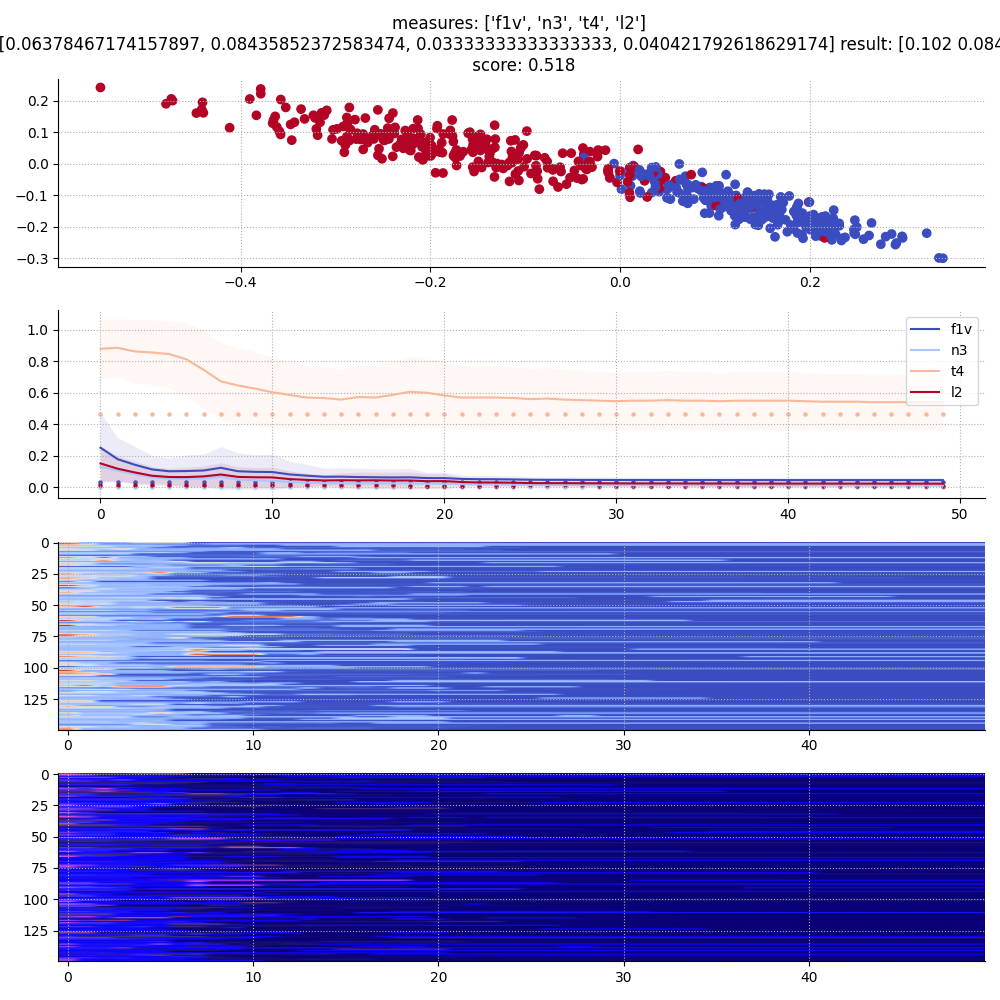
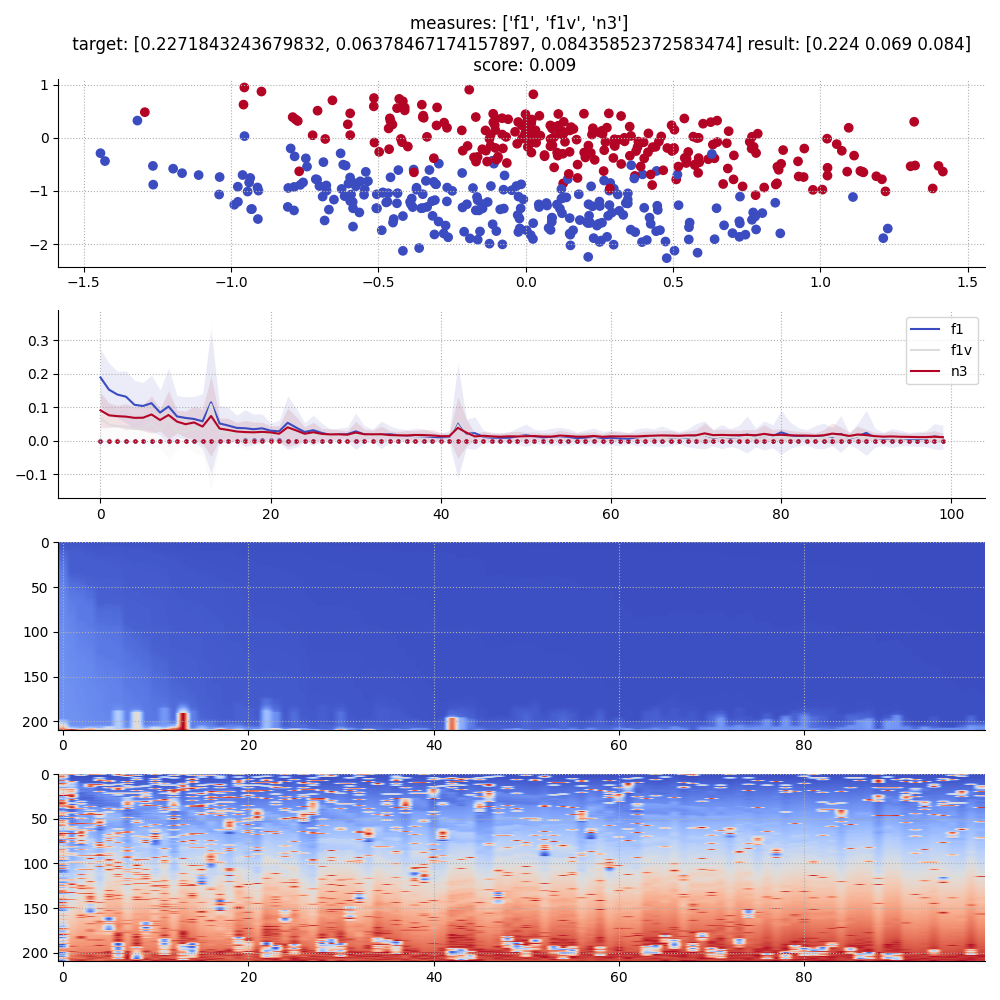
blobs

diff --git a/optim_sort.py b/optim_sort.py
@@ -1,0 +1,173 @@
+import numpy as np
+from sklearn.datasets import make_classification, make_blobs
+from problexity.classification import f1, f1v, f2, f3, f4, l1, l2, l3, n1, n2, n3, n4, t1, lsc, \
+    density, clsCoef, hubs, t2, t3, t4, c1, c2
+import matplotlib.pyplot as plt
+from sklearn.datasets import load_breast_cancer
+
+### genetic params
+pop_size = 210
+iters = 100
+cross_ratio = 0.2
+mut_ratio = 0.1
+mut_std = 0.2
+
+decay_cross = 0.01
+decay_mut = 0.01
+
+### target
+target_X, target_y = load_breast_cancer(return_X_y=True)
+
+complexity_fun = [f1, f1v, n3]
+target_complexity = [f(target_X, target_y) for f in complexity_fun]
+complexity_fun_names = [c.__name__ for c in complexity_fun]
+
+### init
+n_features = 10
+n_features_target = 2
+X, y = make_blobs(n_samples=500, n_features=n_features, centers=2)
+
+population = np.random.normal(loc=0, scale=3, size=(pop_size, n_features, n_features_target))
+
+pop_scores = np.full((pop_size, len(target_complexity)), np.nan)
+pop_scores_all = []
+fitness_all = []
+order_all = []
+
+### optimize
+for i in range(iters): 
+    # if i==3:
+    #     exit()
+    
+    # score
+    if i==0:
+        for projection_id, projection in enumerate(population):
+            pX = X@projection
+            pX /= n_features
+            
+            for cf_id, cf in enumerate(complexity_fun):
+                pop_scores[projection_id, cf_id] = np.abs(target_complexity[cf_id] - cf(pX, y))
+        
+        
+    #reorder
+    order = np.argsort(np.sum(pop_scores, axis=1))
+    print(order)
+    population = population[order]
+    pop_scores = pop_scores[order]
+    print('fitness;', np.sum(pop_scores, axis=1))
+    
+    
+    pop_scores_all.append(np.copy(pop_scores))
+    fitness_all.append(np.copy(np.sum(pop_scores, axis=1)))
+    order_all.append(np.copy(order))
+
+
+    if i!= iters-1: # w ostatnim kroku bez modyfikacji
+                
+        ### krzyżowanie
+        n_crosses = np.max([int(cross_ratio*pop_size), 1])
+        # n_dims = np.max([int(cross_factor*n_features_target), 1])
+        
+        new = []
+        for n_cross_id in range(n_crosses):
+            # dim_to_cross = np.random.choice(n_features_target, n_dims)
+            
+            selected = np.copy(population[n_cross_id])
+            another = np.copy(population[np.random.choice(pop_size)])
+            w = np.random.normal(0.7, 0.2)
+            crossed = w*selected + (1-w)*another
+
+            new.append(crossed)
+            
+            # score new
+            score_new = [[] for i in range(len(target_complexity))]
+            for projection_id, projection in enumerate(new):
+                pX = X@projection
+                pX /= n_features
+                
+                for cf_id, cf in enumerate(complexity_fun):
+                    score_new[cf_id].append(np.abs(target_complexity[cf_id] - cf(pX, y)))
+            
+            
+        population[-n_crosses:] = new
+        pop_scores[-n_crosses:] = np.array(score_new).swapaxes(0,1)
+        cross_ratio = cross_ratio*(1-decay_cross)
+            
+        ### mutacja
+        n_mutations = int(mut_ratio*pop_size)
+        arg_to_mut = np.random.choice(np.arange(pop_size), n_mutations)
+        for arg in arg_to_mut:
+            population[arg] += np.random.normal(loc=0, scale=mut_std)
+            # score mutated
+            pX = X@projection
+            pX /= n_features
+            
+            for cf_id, cf in enumerate(complexity_fun):
+                pop_scores[arg, cf_id] = (np.abs(target_complexity[cf_id] - cf(pX, y)))
+            
+        mut_ratio = mut_ratio*(1-decay_mut)
+        
+        uniq, c = np.unique(population, return_counts=True, axis=0)
+        print(c)
+
+        fitness = np.sum(pop_scores, axis=1)
+        
+        
+
+
+
+# get best
+proj_best = population[0]
+bestX = X@proj_best
+bestX /= n_features
+projection_complexity = np.array([cf(bestX, y) for cf in complexity_fun])
+
+# visualize
+pop_scores_all = np.array(pop_scores_all) 
+print(pop_scores_all.shape)  # 200, 50, 3
+
+best_over_time = np.min(pop_scores_all, axis=1) # 200, 3
+
+mean_over_time = np.mean(pop_scores_all, axis=1) # 200, 3
+div_over_time = np.std(pop_scores_all, axis=1) # 200, 3
+
+print(best_over_time.shape, np.arange(iters).shape)
+
+###
+
+fig, ax = plt.subplots(4,1,figsize=(10,10))
+
+ax[0].scatter(bestX[:,0], bestX[:,1], c=y, cmap='coolwarm')
+ax[0].set_title('measures: %s \n target: %s result: %s \n score: %0.3f' % 
+                (complexity_fun_names, target_complexity, np.round(projection_complexity,3), fitness[0]))
+
+cols = plt.cm.coolwarm(np.linspace(0,1,best_over_time.shape[1]))
+for i in range(best_over_time.shape[1]):
+    ax[1].scatter(np.arange(iters), best_over_time[:,i], c=cols[i], s=5)
+    ax[1].plot(np.arange(iters), mean_over_time[:,i], c=cols[i], label=complexity_fun_names[i])
+    ax[1].fill_between(np.arange(iters), 
+                    mean_over_time[:,i]-div_over_time[:,i],
+                    mean_over_time[:,i]+div_over_time[:,i],
+                    color=cols[i], lw=0, alpha=0.1)
+
+ax[2].imshow(np.array(fitness_all).T, cmap='coolwarm', aspect='auto')
+
+
+# diverse = np.argsort(-np.std(pop_scores_all, axis=(0,1)))[:3]
+# print(diverse)
+# img = np.array(pop_scores_all)[:,:,diverse].swapaxes(0,1)
+# img -= np.min(img)
+# img /= np.max(img) + 0.0001
+# ax[3].imshow(img, aspect='auto')
+
+ax[3].imshow(np.array(order_all).T, aspect='auto', cmap='coolwarm',)
+
+ax[1].legend()
+
+for aa in ax:
+    aa.spines['top'].set_visible(False)
+    aa.spines['right'].set_visible(False)
+    aa.grid(ls=':')
+
+plt.tight_layout()
+plt.savefig('foo.png')

diff --git a/optim_weights.py b/optim_weights.py
@@ -1,34 +1,36 @@
 import numpy as np
 from sklearn.datasets import make_classification
-from problexity.classification import f1, f1v, f2, f3, f4, l1, l2, l3, n1, n2, n3, n4, t1, lsc, density, clsCoef, hubs, t2, t3, t4, c1, c2
+from problexity.classification import f1, f1v, f2, f3, f4, l1, l2, l3, n1, n2, n3, n4, t1, lsc, \
+    density, clsCoef, hubs, t2, t3, t4, c1, c2
 import matplotlib.pyplot as plt
 from sklearn.datasets import load_breast_cancer
 
 ### genetic params
 pop_size = 150
-iters = 50
-cross_ratio = 0.8
+iters = 150
+cross_ratio = 0.5
 mut_ratio = 0.3
-mut_std = 0.1
+mut_std = 0.3
+cross_factor = 1.0
 
-decay_cross = 0.1
-decay_mut = 0.1
+decay_cross = 0.03
+decay_mut = 0.03
 
 ### target
 target_X, target_y = load_breast_cancer(return_X_y=True)
 
-complexity_fun = [f1v, n3, t4, l2]
+complexity_fun = [n3, f1, t2]
 target_complexity = [f(target_X, target_y) for f in complexity_fun]
 complexity_fun_names = [c.__name__ for c in complexity_fun]
 
 ### init
-n_features = 10
+n_features = 2
 n_features_target = 2
 X, y = make_classification(n_samples=500,
                            n_features=n_features, 
-                           n_informative=n_features//2, 
-                           n_redundant=n_features//2, n_repeated=0, 
-                           n_clusters_per_class=1)
+                           n_informative=n_features, 
+                           n_redundant=0, n_repeated=0, 
+                           n_clusters_per_class=2)
 
 population = np.random.normal(loc=0, scale=1, size=(pop_size, n_features, n_features_target))
 
@@ -45,9 +47,15 @@ for i in range(iters):
         for cf_id, cf in enumerate(complexity_fun):
             pop_scores[projection_id, cf_id] = np.abs(target_complexity[cf_id] - cf(pX, y))
     
+    #diversity score:
+    std_scores = np.std(pop_scores, axis=0)
+    weights = np.copy(std_scores)
+    weights /= np.sum(weights)
+    print(weights)
+    
     #TODO
-    fitness = np.sum(pop_scores, axis=1)
-    print(fitness)
+    fitness = np.sum(weights*pop_scores, axis=1)
+    # print(fitness)
     
     pop_scores_all.append(np.copy(pop_scores))
     fitness_all.append(np.copy(fitness))
@@ -56,13 +64,17 @@ for i in range(iters):
                 
         ### krzyżowanie
         n_crosses = np.max([int(cross_ratio*pop_size), 1])
+        n_dims = np.max([int(cross_factor*n_features_target), 1])
+        
         arg_sorted = np.argsort(fitness)
         arg_to_cross = arg_sorted[:n_crosses]
         arg_to_replace = np.random.choice(arg_sorted[n_crosses:], n_crosses)
         arg_pairs_cross = np.array([np.random.permutation(arg_to_cross), arg_to_cross]).swapaxes(0,1)
-
+        
         for n_cross_id, (arg1, arg2) in enumerate(arg_pairs_cross):
-            crossed = (population[arg1] + population[arg2])/2
+            dim_to_cross = np.random.choice(n_features_target, n_dims)
+            crossed = np.copy(population[arg_to_replace[n_cross_id]])
+            crossed[dim_to_cross] = (population[arg1, dim_to_cross] + population[arg2, dim_to_cross])/2
             #zastępujemy
             population[arg_to_replace[n_cross_id]] = crossed
             
@@ -114,9 +126,14 @@ for i in range(best_over_time.shape[1]):
                     mean_over_time[:,i]-div_over_time[:,i],
                     mean_over_time[:,i]+div_over_time[:,i],
                     color=cols[i], lw=0, alpha=0.1)
-    
+
+diverse = np.argsort(-np.std(pop_scores_all, axis=(0,1)))[:3]
+print(diverse)
+img = np.array(pop_scores_all)[:,:,diverse].swapaxes(0,1)
+img -= np.min(img)
+img /= np.max(img) + 0.0001
 ax[2].imshow(np.array(fitness_all).T, cmap='coolwarm', aspect='auto')
-ax[3].imshow(np.array(pop_scores_all)[:,:,:3].swapaxes(0,1), aspect='auto')
+ax[3].imshow(img, aspect='auto')
 
 ax[1].legend()
 
